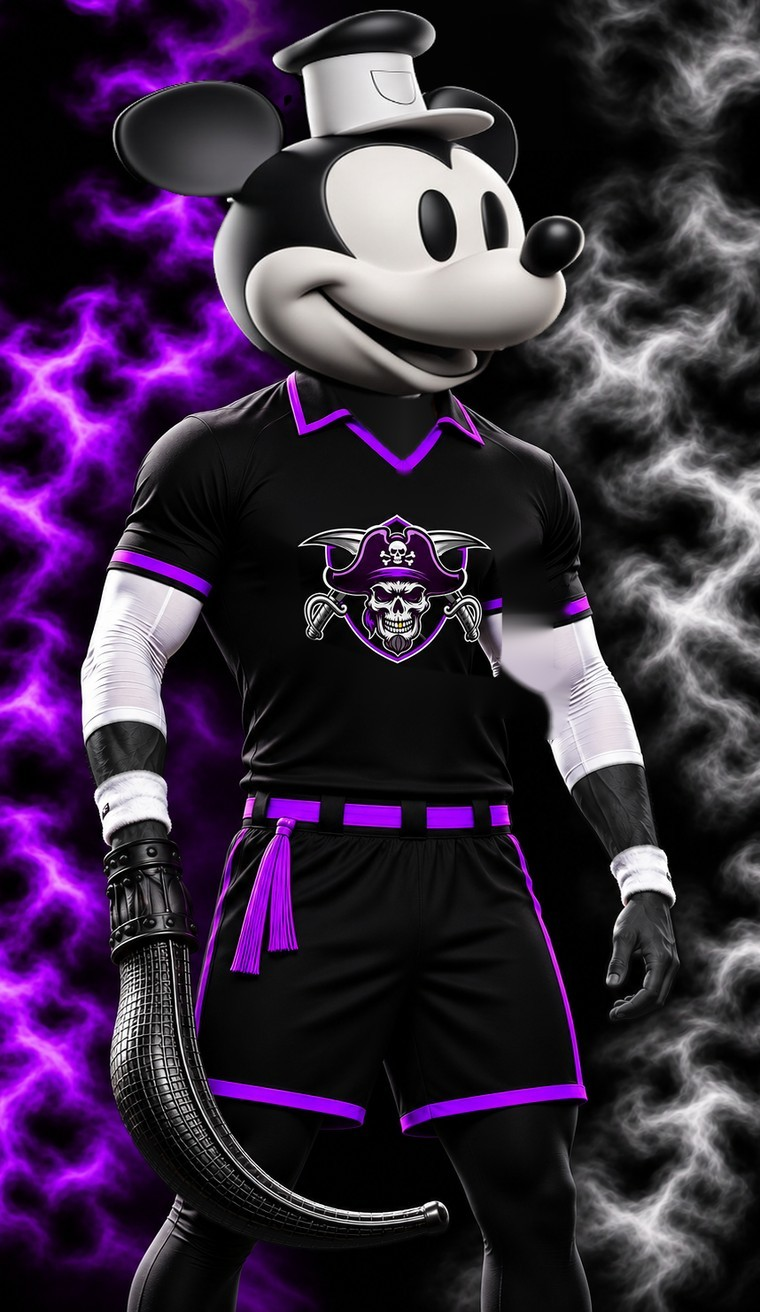
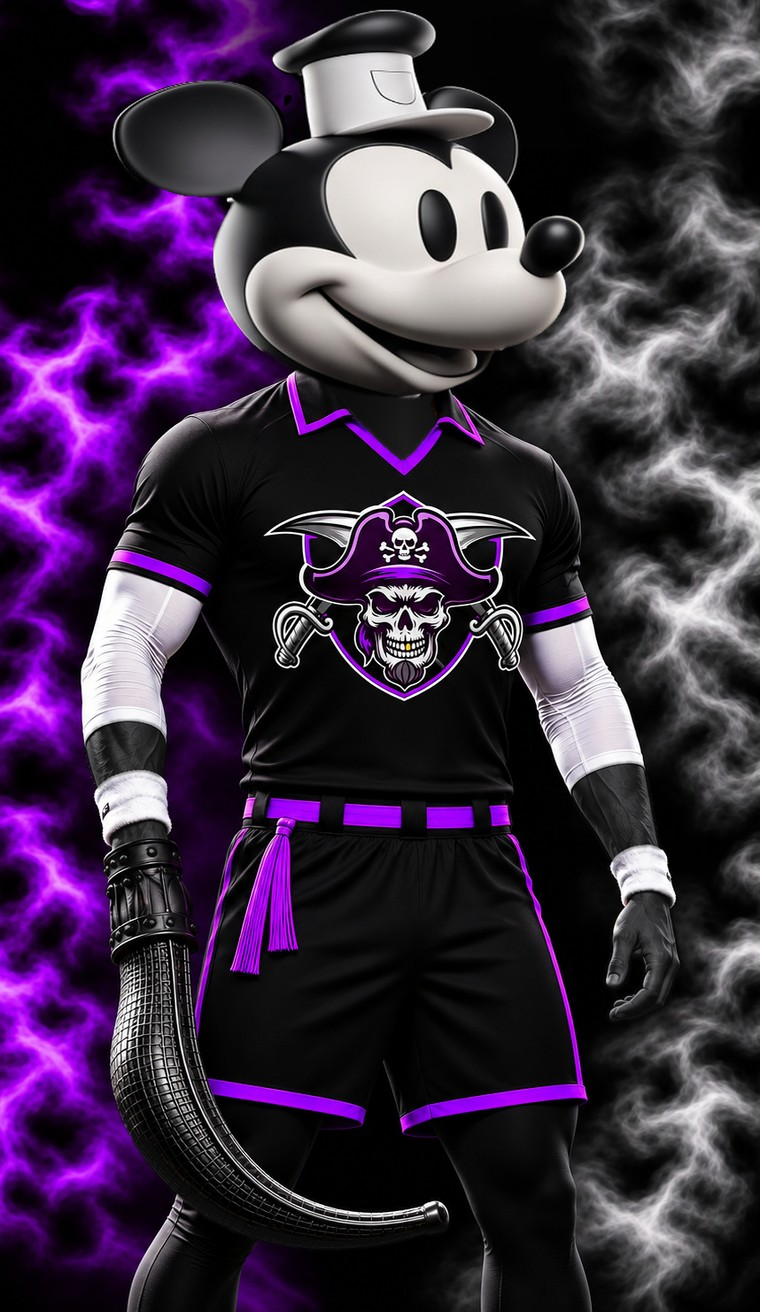
Skins page: Mickey tile sized like the others; Mickey Booties picture without the sleeve smear
Claude-Session: https://claude.ai/code/session_01RXYkimbn35SjoihCfai7fS

Changed region(s): [[0.3632, 0.375, 0.7566, 0.5625]]

diff --git a/index.html b/index.html
@@ -18,7 +18,7 @@ img { max-width: 100%; }
 [hidden] { display: none !important; }
 </style>
 <script>
-window.FL_BUILD = "20261124190103";
+window.FL_BUILD = "20261124190215";
 window.FL_RELAY = "wss://relay-production-5e78c1a2.up.railway.app/ws";
 window.FL_STATS = "https://relay-production-5e78c1a2.up.railway.app/t";
 window.FL_FEEDBACK = "https://relay-production-5e78c1a2.up.railway.app/feedback";
@@ -1573,7 +1573,7 @@ window.FLFeedback = (function () {
   var PROMO = window.FL_PROMO || null;
   if (PROMO && !PROMO._v) {                                       // the pictures were redone without smoke: a new address so no phone shows a saved old one
     PROMO._v = 1;
-    var bump = function (o) { if (o) for (var k in o) { if (typeof o[k] === 'string') { if (/\.jpg$/.test(o[k])) o[k] += '?s=10'; } else if (o[k] && typeof o[k] === 'object') bump(o[k]); } };
+    var bump = function (o) { if (o) for (var k in o) { if (typeof o[k] === 'string') { if (/\.jpg$/.test(o[k])) o[k] += '?s=11'; } else if (o[k] && typeof o[k] === 'object') bump(o[k]); } };
     (PROMO.people || []).forEach(function (w) { bump(w.art); bump(w.solo); }); bump(PROMO.blank);
   }                           // a limited-edition match-up page: its own landing screen, no setup page
   function save() { if (PROMO) return; try { localStorage.setItem(STORE, JSON.stringify(cfg)); } catch (e) { /* ignore */ } }
@@ -2250,8 +2250,8 @@ window.FLFeedback = (function () {
       '</section>' +
       '<section class="wz-step" id="wz6" hidden>' + wzTop(4, 'Limited Edition Skins') +
         '<p class="wz-sub">Tap a skin to purchase. $0.99 per month each.</p><div class="wz-skins">' +
-        [['1928 Mickey', 'kv-m-l-14.jpg'], ['1926 Pooh', 'bh-b-l-14.jpg'], ['1929 Popeye', 'pp-b-l-14.jpg'], ['Santa', 'sx-s-l.jpg'], ['The Grinch', 'sx-g-l.jpg']].map(function (k) { return '<button type="button" class="wz-skin" data-wz="skin" data-skin="' + k[0] + '"><img src="' + k[1] + '?s=10" alt=""><b>' + k[0] + '</b></button>'; }).join('') +
-        '<button type="button" class="wz-skin wz-you" data-wz="avatar"><span class="wz-youart"><img src="kh-blank-l-14.jpg?s=10" alt=""><i>?</i></span><b>Your Avatar</b></button>' +
+        [['1928 Mickey', 'skin-mickey.jpg'], ['1926 Pooh', 'bh-b-l-14.jpg'], ['1929 Popeye', 'pp-b-l-14.jpg'], ['Santa', 'sx-s-l.jpg'], ['The Grinch', 'sx-g-l.jpg']].map(function (k) { return '<button type="button" class="wz-skin" data-wz="skin" data-skin="' + k[0] + '"><img src="' + k[1] + '?s=11" alt=""><b>' + k[0] + '</b></button>'; }).join('') +
+        '<button type="button" class="wz-skin wz-you" data-wz="avatar"><span class="wz-youart"><img src="kh-blank-l-14.jpg?s=11" alt=""><i>?</i></span><b>Your Avatar</b></button>' +
         '</div></section>' +
       '<div class="wz-pop" id="wzAvatar" hidden><form class="wz-popcard" id="wzAvatarForm" autocomplete="off"><h3>Your Avatar</h3>' +
         '<p class="wz-atxt">Send us two head shots, a front view and a side view, and we custom build an avatar of you to play in the game.</p>' +
